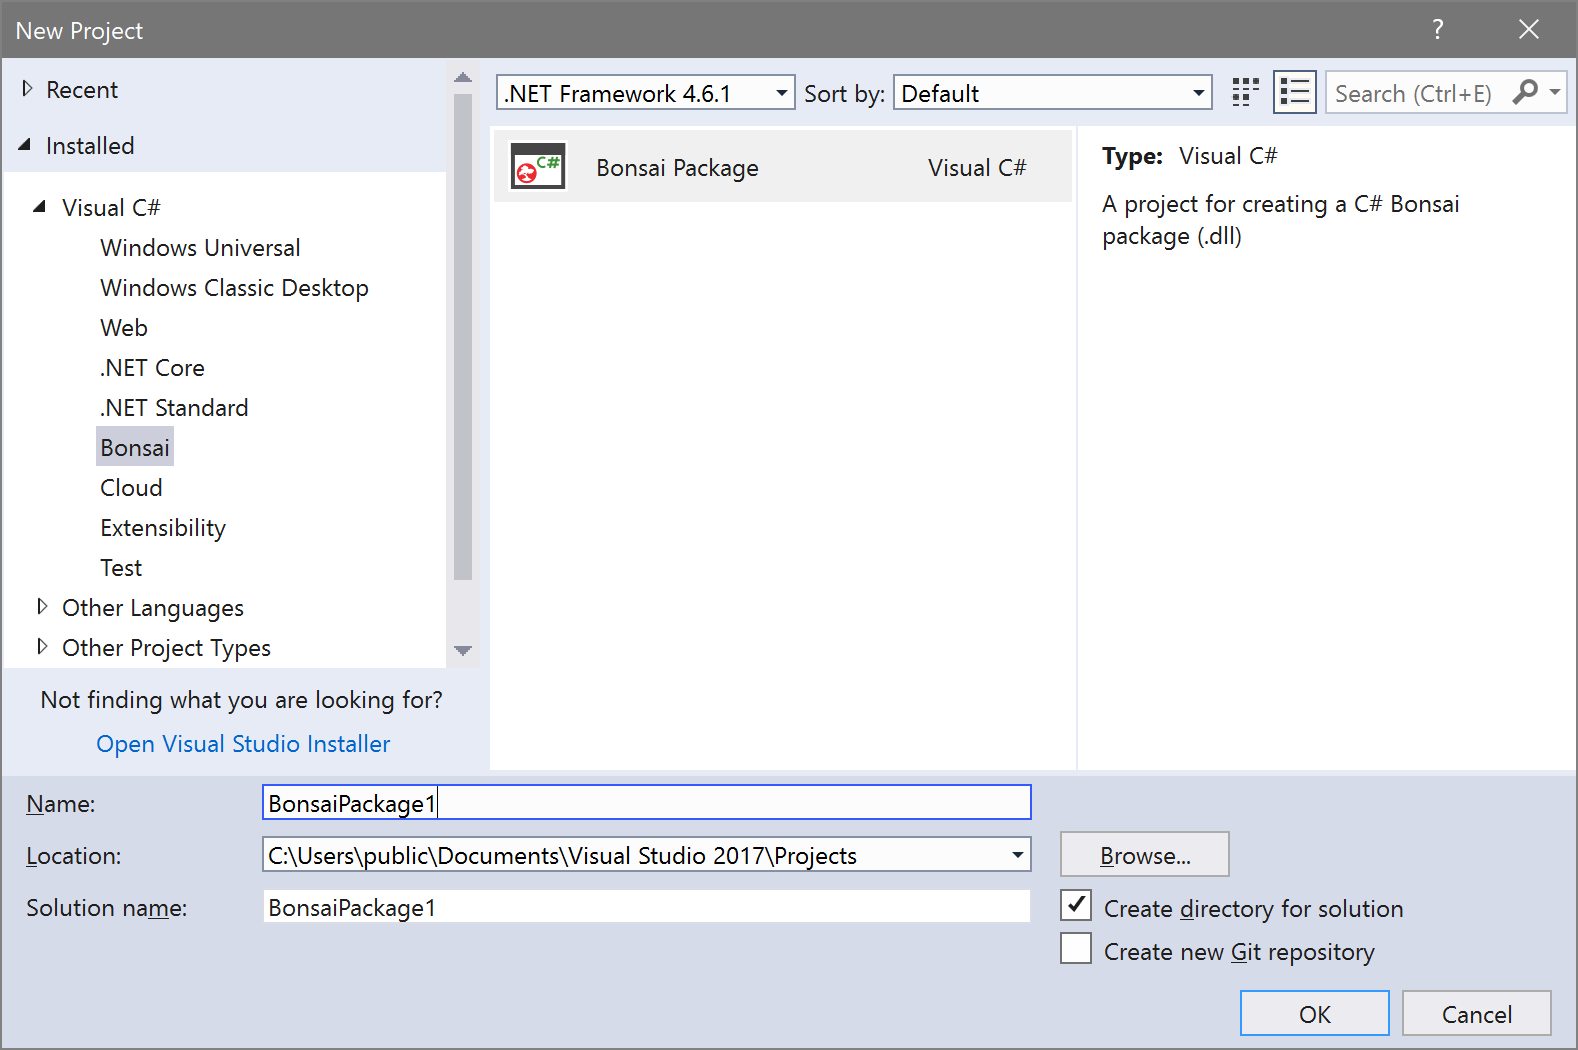
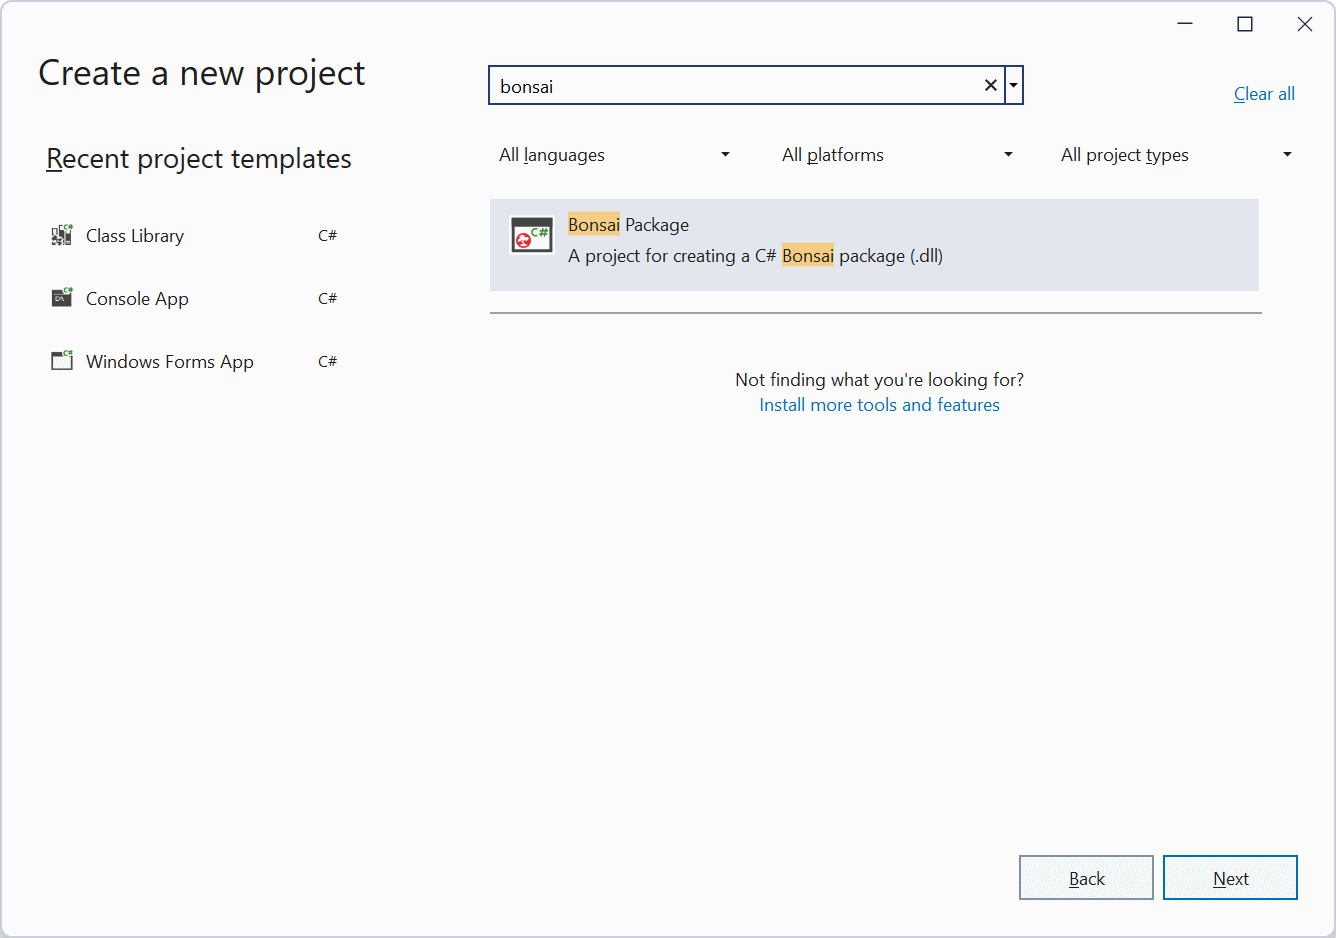
Update guide on creating custom package projects

diff --git a/articles/create-package.md b/articles/create-package.md
@@ -5,18 +5,72 @@ title: "Creating a Package"
 
 # Creating a Package
 
-The Bonsai language can be easily extended with custom operators, which are installed and shared using assembly packages. These packages are typically written in the C# programming language, using the [Visual Studio](https://www.visualstudio.com/) development environment.
+The Bonsai language can be easily extended with custom operators, which are installed and shared using [NuGet](https://www.nuget.org/) packages. Packages are typically written in the C# programming language, using the [Visual Studio](https://www.visualstudio.com/) development environment.
 
 ## Install pre-requisites
 
 1. [Visual Studio](https://www.visualstudio.com/). You can install the Community edition for free.
-2. Bonsai VS Extensions. In the Windows Start Menu, search for the "**Install Bonsai VS Extensions**" shortcut and run it.
+2. Bonsai VS Extensions. From the Windows Start Menu, search for the "**Install Bonsai VS Extensions**" shortcut and run it.
 
 ## Create a package project
 
 1. Start **Visual Studio**.
-2. Create a **New Project**. In the **New Project** dialog, there should now be a project template for creating a Bonsai package, under **Templates/Visual C#/Bonsai**. ![Creating a new Bonsai package project](~/images/extensions-packageproject.png)
-3. After the project is created, you should see that a file "**Transform1.cs**" has been created and added to the solution explorer. This file contains an example implementation of a custom transform node. ![Bonsai transform template](~/images/extensions-transformtemplate.png)
-4. `TSource` and `TResult` specify the input and output data types of the transform and you can modify them however you want. Every Bonsai node operates on observable sequences using the [ReactiveX](http://reactivex.io/) framework. Transforms are nodes which apply an operation to every item in the input sequence. The simplest way to implement a transform is by using the [`Select`](http://reactivex.io/documentation/operators/map.html) operator from Rx. As an example, we will modify the transform in order to apply a sine operation on numeric inputs. ![Implementation of a sine transform](~/images/extensions-transformsine.png)
-5. We can test our transform by starting the project with **F5**. This will automatically launch the Bonsai editor with our package preloaded in the **Toolbox**. Add a `Timer` source and our `Transform1` node. Set the timer period to some reasonable value like 0.1 seconds and run the workflow. ![Running the sine transform](~/images/extensions-running.png)
-6. It is also possible to debug our code while it is running by setting breakpoints, either by clicking on the left of the line we want to debug or by hitting **F9** over the target code. After this, you can run the code step by step and inspect the runtime value of variables. ![Setting a breakpoint on the sine transform](~/images/extensions-breakpoint.png) ![Debugging the sine transform](~/images/extensions-debugging.png)
+2. Select the **Create a new project** option. In the **Create a new project** dialog, type `bonsai` in the search toolbox. The project template for creating a Bonsai package should now be displayed.
+
+    ![Creating a new Bonsai package project](~/images/extensions-packageproject.png)
+
+3. Give the project a name and a location, and press the `Create` button. After the project is created, you should see that a file "**Source1.cs**" has been added to the solution explorer. This file contains an example implementation of a custom source.
+
+    ![Bonsai source template](~/images/extensions-sourcetemplate.png)
+
+4. Every Bonsai operator specifies an observable sequence using the <xref href="System.IObservable`1"/> interface. The [System.Reactive](http://reactivex.io/) package provides a comprehensive library of methods used to generate and manipulate observable sequences in C#. The simplest way to implement a source is by using the methods in the <xref href="System.Reactive.Linq.Observable"/> class.
+
+    As an example, the expression below will generate a simple periodic sinewave by applying the projection operator <xref href="System.Reactive.Linq.Observable.Select*"/> to the incremental counter sequence generated by a <xref href="System.Reactive.Linq.Observable.Timer*"/>.
+
+    ```c#
+    [Description("")]
+    [Combinator(MethodName = nameof(Generate))]
+    [WorkflowElementCategory(ElementCategory.Source)]
+    public class Source1
+    {
+        public IObservable<double> Generate()
+        {
+            return Observable
+                .Timer(
+                    dueTime: TimeSpan.Zero,
+                    period: TimeSpan.FromSeconds(0.5))
+                .Select(counter => Math.Sin(counter));
+        }
+    }
+    ```
+
+5. We can test our operator by starting the project with **F5**. This will automatically launch the Bonsai editor with our package preloaded in the **Toolbox**. Add the new `Source1` node and run the workflow.
+
+    ![Running the sine source](~/images/extensions-running.png)
+
+6. If we need to parameterize our operator, we can add new public properties to the class. Custom editors can be used to provide interactive widgets for editing the property values. Several common widgets are provided in the <xref href="Bonsai.DesignTypes"/> class. For example, to make the period customizable with a slider over a specified range, we can modify our source operator:
+
+    ```c#
+    [Description("")]
+    [Combinator(MethodName = nameof(Generate))]
+    [WorkflowElementCategory(ElementCategory.Source)]
+    public class Source1
+    {
+        [Range(0.1, 2)]
+        [Editor(DesignTypes.SliderEditor, DesignTypes.UITypeEditor)]
+        public double PeriodSeconds { get; set; } = 0.5;
+
+        public IObservable<double> Generate()
+        {
+            return Observable
+                .Timer(
+                    dueTime: TimeSpan.Zero,
+                    period: TimeSpan.FromSeconds(PeriodSeconds))
+                .Select(counter => Math.Sin(counter));
+        }
+    }
+    ```
+
+7. It is also possible to debug our code while it is running by setting breakpoints, either by clicking on the left of the line we want to debug or by hitting **F9** over the target code. After this, you can run the code step by step and inspect the runtime value of variables.
+
+    ![Debugging the sine source](~/images/extensions-debugging.png)
